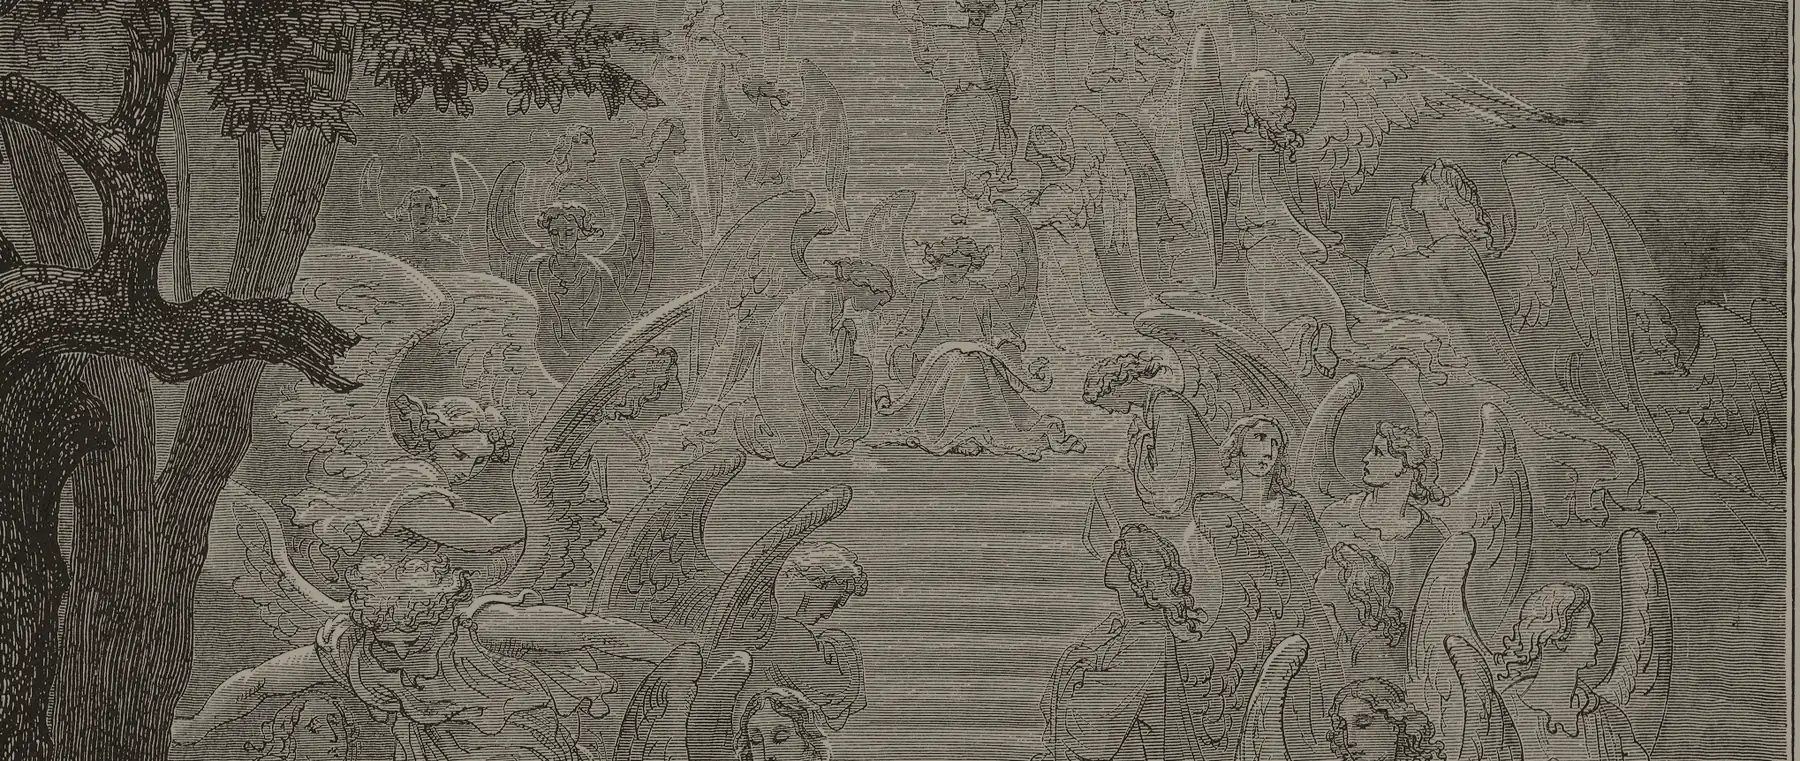
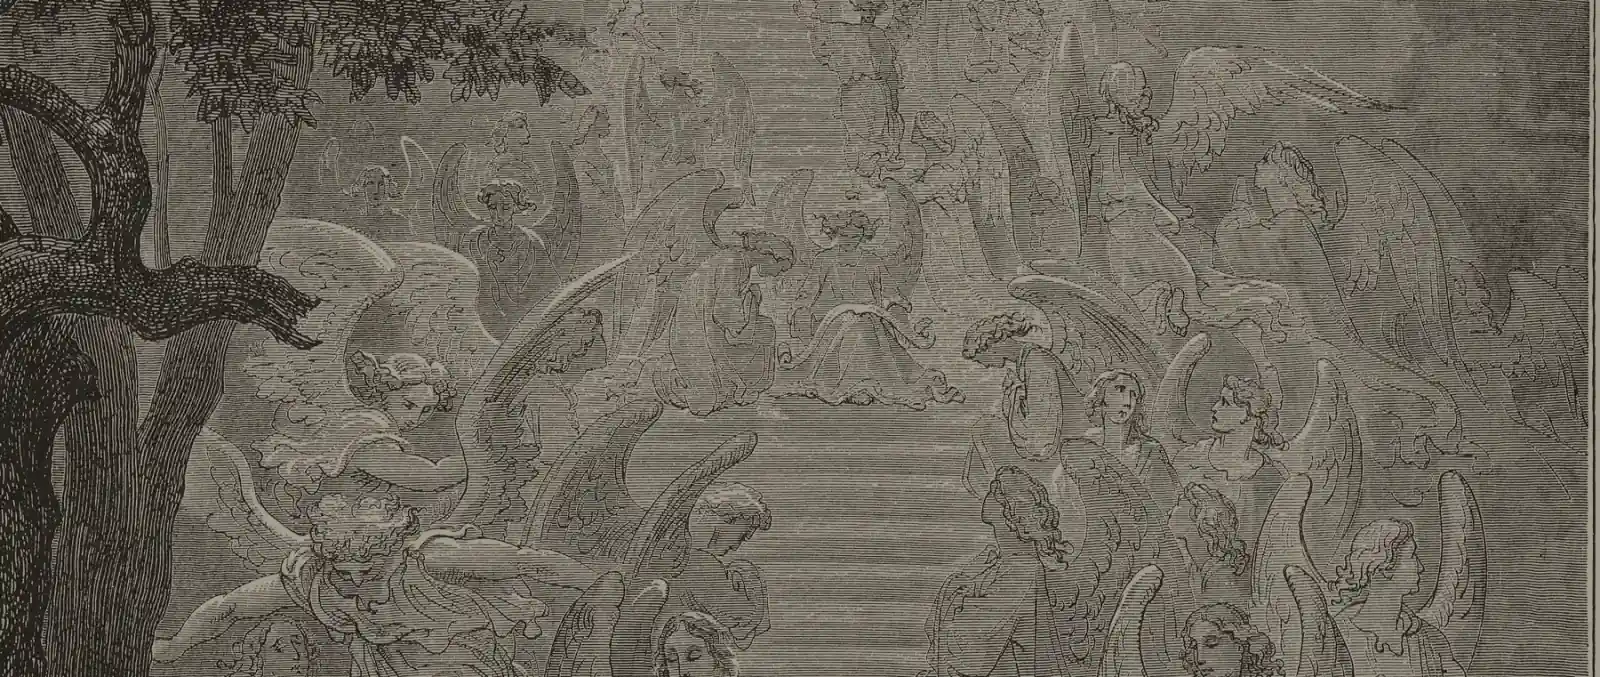
Re-encode the Doré band and lock the Ink & Bone tokens.
The desktop week plate is about 160KB and still in colour. Raised surfaces match the card, oxblood is only the large initial, and the room controls sit below the plate so they can be pressed.

diff --git a/src/components/board/week-view.tsx b/src/components/board/week-view.tsx
@@ -41,7 +41,7 @@ export function WeekView() {
       <div className="flex flex-col gap-8">
         <section className="plate flex flex-col gap-2">
           <Kicker>This week</Kicker>
-          <h1 className="font-display text-4xl text-balance text-fg lg:text-5xl">{week.length === 0 ? "Nothing on the calendar yet." : "This week"}</h1>
+          <h1 className="illum font-display text-4xl text-balance text-fg lg:text-5xl">{week.length === 0 ? "Nothing on the calendar yet." : "This week"}</h1>
           {week.length > 0 ? (
             <p className="max-w-prose text-base text-muted">The next seven days. Press <strong className="font-semibold text-fg">I'll be there</strong> on anything you will go to; the host will take roll after.</p>
           ) : null}
@@ -102,7 +102,7 @@ function DayCard({ card, me }: { card: MeetingCard; me: string }) {
         {card.kind === "candidate" ? <span className="rounded-sm border border-signal px-2 py-1 text-signal">Candidate event</span> : null}
         {card.firstTimer ? <span className="text-signal">new people welcome</span> : null}
       </div>
-      <h3 className="mt-2 text-2xl text-fg">{card.name}</h3>
+      <h3 className="illum mt-2 text-2xl text-fg">{card.name}</h3>
       <p className="text-sm text-muted">{cardSummary(card)}</p>
       {card.book ? <p className="mt-1 text-sm text-fg">{readingLine(card)}</p> : null}
       {card.going.length > 0 ? <p className="mt-1 text-sm text-muted">Going: {card.going.join(", ")}</p> : null}
@@ -127,7 +127,7 @@ export function NeedCard({ card }: { card: MeetingCard }) {
         <span className="rounded-sm bg-raised px-2 py-1 font-semibold text-fg">{roomById(card.room).name}</span>
         <span className="text-muted">organized by {card.host}</span>
       </div>
-      <h3 className="mt-2 text-xl text-fg">{card.name}</h3>
+      <h3 className="illum mt-2 text-xl text-fg">{card.name}</h3>
       <p className="text-sm text-muted">
         {card.time} · {card.place}
       </p>
@@ -167,7 +167,7 @@ function TheCall() {
         const office = officeById(campaign.officeId, customOffices);
         return (
           <article key={campaign.id} className="card rounded-lg border border-signal bg-surface p-4">
-            <h3 className="text-2xl text-fg">{campaign.title}</h3>
+            <h3 className="illum text-2xl text-fg">{campaign.title}</h3>
             <p className="text-sm text-muted">
               {office.name}, {office.role} · {formatWindow(campaign.surgeStart, campaign.surgeEnd)}
             </p>

diff --git a/src/lib/board/engraved.test.ts b/src/lib/board/engraved.test.ts
@@ -64,8 +64,15 @@ test("every plate the stylesheet names is a WebP in public/art", () => {
   }
 });
 
+test("the desktop Doré week band is about 160 KB", () => {
+  const size = statSync(new URL("../../../public/art/dore-band-A.webp", import.meta.url)).size;
+  assert.ok(size >= 140 * 1024 && size <= 180 * 1024, `dore-band-A.webp is ${size} bytes`);
+});
+
 test("reduced data and the first paint skip the art URL", () => {
-  assert.match(css, /prefers-reduced-data:reduce/);
+  assert.match(css, /prefers-reduced-data:\s*reduce/);
+  assert.match(css, /prefers-reduced-motion:\s*reduce/);
+  assert.match(css, /animation:none!important/);
   assert.equal(artAttribute({ painted: false, reducedData: false, section: "week" }), null);
   assert.equal(artAttribute({ painted: true, reducedData: true, section: "landing" }), null);
   assert.equal(artAttribute({ painted: true, reducedData: false, section: "rooms" }), "rooms");
@@ -90,12 +97,26 @@ test("ink and bone text clears WCAG AA on the card, including evening", () => {
     ["#bcae94", "#17110b", 4.5],
     ["#c9a45c", "#14100c", 3],
     ["#c9a45c", "#241d16", 3],
+    ["#b4483e", "#241d16", 3],
+    ["#b4483e", "#14100c", 3],
     ["#1f1912", "#f8f3e7", 4.5],
     ["#5e5242", "#f8f3e7", 4.5],
+    ["#14100c", "#f0e7d3", 4.5],
   ];
   for (const [fg, bg, min] of pairs) {
     assert.ok(contrast(fg, bg) >= min, `${fg} on ${bg}`);
   }
+  // Oxblood is a large initial, not body text: it clears 3:1 and misses 4.5:1.
+  assert.ok(contrast("#b4483e", "#241d16") < 4.5);
+  assert.match(css, /\.illum::first-letter\{color:var\(--accent\)/);
+  assert.equal([...css.matchAll(/var\(--accent\)/g)].length, 1);
+  const styles = readFileSync(new URL("../../styles.css", import.meta.url), "utf8");
+  assert.match(styles, /--color-bg:\s*#14100c/);
+  assert.match(styles, /--color-raised:\s*#241d16/);
+  assert.match(styles, /--color-fg:\s*#f0e7d3/);
+  assert.match(styles, /--color-gilt:\s*#c9a45c/);
+  assert.match(styles, /--color-rubric:\s*#b4483e/);
+  assert.match(styles, /--color-parchment:\s*#ece2cc/);
 });
 
 test("hero bands are week, rooms, and messages, and the label names the plate", () => {

diff --git a/src/components/board/dm-view.tsx b/src/components/board/dm-view.tsx
@@ -32,7 +32,7 @@ export function DmView() {
     return (
       <div className="plate flex flex-col gap-3">
         <Kicker>Messages</Kicker>
-        <h1 className="font-display text-4xl text-fg">Add your name first.</h1>
+        <h1 className="illum font-display text-4xl text-fg">Add your name first.</h1>
         <p className="max-w-2xl text-base text-muted">Messages go between two names. Yours is set under About.</p>
       </div>
     );
@@ -43,12 +43,12 @@ export function DmView() {
     const rows = byThread.get(thread.id) ?? [];
     return (
       <div className="flex flex-col gap-4 lg:max-w-3xl">
-        <button type="button" className={cn(btnQuiet, "self-start px-0")} onClick={() => setOpenThread(null)}>
-          <ArrowLeft className="size-4" aria-hidden="true" />
-          All messages
-        </button>
-        <div className="plate">
-          <h1 className="font-display text-3xl text-fg">{other}</h1>
+        <div className="plate flex flex-col gap-2">
+          <button type="button" className={cn(btnQuiet, "self-start px-0")} onClick={() => setOpenThread(null)}>
+            <ArrowLeft className="size-4" aria-hidden="true" />
+            All messages
+          </button>
+          <h1 className="illum font-display text-3xl text-fg">{other}</h1>
           <p className="text-sm text-muted">Plain text, deleted after {DM_RETENTION_DAYS} days.</p>
         </div>
         <ul className="flex flex-col gap-2">
@@ -89,7 +89,7 @@ export function DmView() {
     <div className="flex flex-col gap-6">
       <section className="plate flex flex-col gap-3">
         <Kicker>Messages</Kicker>
-        <h1 className="max-w-xl font-display text-4xl text-balance text-fg lg:text-5xl">Messages</h1>
+        <h1 className="illum max-w-xl font-display text-4xl text-balance text-fg lg:text-5xl">Messages</h1>
         <p className="max-w-prose text-base text-muted">
           You can message someone you have been on an "I went" list with, or who replied to your post. Open one
           from their post or their card. Messages are plain text, not encrypted, and are deleted after {DM_RETENTION_DAYS} days.

diff --git a/src/components/board/room-view.tsx b/src/components/board/room-view.tsx
@@ -115,7 +115,7 @@ export function RoomView() {
                   : "Coming up"}
             {card.pinned ? " · pinned by the host" : ""}
           </Kicker>
-          <h2 className="mt-2 text-2xl text-fg">{card.name}</h2>
+          <h2 className="illum mt-2 text-2xl text-fg">{card.name}</h2>
           <p className="text-sm text-muted">
             {cardSummary(card)}
             {card.next ? ` · ${formatDate(card.next)}` : ""}
@@ -136,8 +136,16 @@ export function RoomView() {
 
   return (
     <div className="flex flex-col gap-6">
+      <section className="plate flex flex-col gap-2">
+        <Kicker>{meta.cardNoun === "Service" ? "Church" : "Room"}</Kicker>
+        <h1 className="illum font-display text-4xl text-balance text-fg lg:text-5xl">{meta.name}</h1>
+        <p className="max-w-prose text-base text-muted">{meta.what}</p>
+        <RoomCall roomId={room} />
+        <RoomChat roomId={room} />
+      </section>
+
       <nav
-        className="flex gap-2 overflow-x-auto pb-1 lg:flex-wrap lg:overflow-visible"
+        className="relative z-10 flex gap-2 overflow-x-auto pb-1 lg:flex-wrap lg:overflow-visible"
         aria-label="Rooms"
       >
         {rooms.map((item) => (
@@ -152,14 +160,6 @@ export function RoomView() {
           </button>
         ))}
       </nav>
-
-      <section className="plate flex flex-col gap-2">
-        <Kicker>{meta.cardNoun === "Service" ? "Church" : "Room"}</Kicker>
-        <h1 className="font-display text-4xl text-balance text-fg lg:text-5xl">{meta.name}</h1>
-        <p className="max-w-prose text-base text-muted">{meta.what}</p>
-        <RoomCall roomId={room} />
-        <RoomChat roomId={room} />
-      </section>
 
       <div className="grid gap-6 lg:grid-cols-[minmax(0,1fr)_minmax(20rem,26rem)] lg:gap-12">
         <div className="flex flex-col gap-6">

diff --git a/src/components/board/find-view.tsx b/src/components/board/find-view.tsx
@@ -66,7 +66,7 @@ export function FindView() {
       <div className="flex flex-col gap-8">
         <section className="flex flex-col gap-3">
           <Kicker>Find</Kicker>
-          <h1 className="max-w-xl font-display text-4xl text-balance text-fg lg:text-5xl">
+          <h1 className="illum max-w-xl font-display text-4xl text-balance text-fg lg:text-5xl">
             Every meeting, in one list.
           </h1>
           <p className="max-w-prose text-base text-muted">
@@ -182,7 +182,7 @@ function TradeRow({ card, witnesses, ...rest }: RowProps & { witnesses: string[]
   return (
     <article className={cn("card rounded-lg border border-line bg-surface p-4", !shown && "opacity-80")}>
       <Tags card={card} />
-      <h3 className="mt-2 text-xl text-fg">{card.name}</h3>
+      <h3 className="illum mt-2 text-xl text-fg">{card.name}</h3>
       <p className="text-sm text-muted">{cardSummary(card)}</p>
       <p className="mt-1 text-sm text-muted">
         {witnesses.length === 0
@@ -258,7 +258,7 @@ function MeetingRow({ card, shown, ...rest }: RowProps & { shown: boolean }) {
         {card.pinned ? <span className="text-signal">pinned</span> : null}
         {card.firstTimer ? <span className="text-signal">new people welcome</span> : null}
       </Tags>
-      <h3 className="mt-2 text-xl text-fg">{card.name}</h3>
+      <h3 className="illum mt-2 text-xl text-fg">{card.name}</h3>
       <p className="text-sm text-muted">{cardSummary(card)}</p>
       {card.book ? <p className="mt-1 text-sm text-fg">{readingLine(card)}</p> : null}
       <p className="mt-1 text-sm text-muted">

diff --git a/src/components/board/profile-view.tsx b/src/components/board/profile-view.tsx
@@ -30,7 +30,7 @@ export function ProfileView() {
     return (
       <div className="flex flex-col gap-3">
         <Kicker>Profile</Kicker>
-        <h1 className="font-display text-4xl text-fg">{name}</h1>
+        <h1 className="illum font-display text-4xl text-fg">{name}</h1>
         <p className="max-w-2xl text-base text-muted">You can see a profile once you have been to the same meeting as that person. You and {name} have not been to one yet.</p>
       </div>
     );
@@ -40,7 +40,7 @@ export function ProfileView() {
     <div className="flex flex-col gap-8 lg:max-w-4xl">
       <section className="flex flex-col gap-2">
         <Kicker>{mine ? "You" : "Profile"}</Kicker>
-        <h1 className="font-display text-4xl text-fg lg:text-5xl">{name}</h1>
+        <h1 className="illum font-display text-4xl text-fg lg:text-5xl">{name}</h1>
         {mine ? (
           <p className="max-w-prose text-sm text-muted">Your household, church, and trade. Only people who have been to the same meeting as you can see this page; to everyone else you are a name.</p>
         ) : null}

diff --git a/src/components/quorum/desk-view.tsx b/src/components/quorum/desk-view.tsx
@@ -76,7 +76,7 @@ export function DeskView() {
   if (!campaign) {
     return (
       <div className="flex flex-col gap-4">
-        <h1 className="text-3xl text-fg">That call is gone.</h1>
+        <h1 className="illum text-3xl text-fg">That call is gone.</h1>
         <button type="button" className={btnGhost} onClick={() => setView("load")}>
           Back to calls
         </button>
@@ -146,7 +146,7 @@ export function DeskView() {
             </span>
           )}
         </div>
-        <h1 className="text-4xl text-fg">{campaign.title}</h1>
+        <h1 className="illum text-4xl text-fg">{campaign.title}</h1>
         <p className="max-w-prose text-base text-muted">{campaign.principle}</p>
         <p className="max-w-prose text-sm text-muted">
           This is one call. Below: the message everyone gives, the official and when to call, the script to read word for word, how to send it to your group, and the "I called" button.

diff --git a/src/components/quorum/app.tsx b/src/components/quorum/app.tsx
@@ -31,7 +31,7 @@ export function QuorumPanel() {
     <div className="flex flex-col gap-6">
       <div className="flex flex-col gap-3">
         <Kicker>The desk</Kicker>
-        <h1 className="font-display text-4xl text-balance text-fg lg:text-5xl">Everyone calls one official, at the same time, with the same message.</h1>
+        <h1 className="illum font-display text-4xl text-balance text-fg lg:text-5xl">Everyone calls one official, at the same time, with the same message.</h1>
         <p className="max-w-prose text-base text-muted">
           Scattered emails to every office get ignored. What staff notice is a hundred calls to the one official whose desk a bill is sitting on, in one morning, all asking for the same thing. This page tells you who that official is, what to say, when to call, and lets you record that you called.
         </p>

diff --git a/src/styles.css b/src/styles.css
@@ -19,17 +19,17 @@
   /* Ink & Bone, the default plate palette. Parchment is [data-palette="parchment"] in backgrounds.css. */
   --color-bg: #14100c;
   --color-surface: #1f1914;
-  --color-raised: #2d251c;
+  --color-raised: #241d16;
   --color-fg: #f0e7d3;
   --color-muted: #bcae94;
   --color-line: #3a3026;
   --color-line-strong: #8a7a62;
   --color-signal: #f0e7d3;
   --color-signal-ink: #14100c;
-  --color-parchment: #f3ecdc;
+  --color-parchment: #ece2cc;
   --color-ink: #1f1912;
   --color-gilt: #c9a45c;
-  --color-accent: #b4483e;
+  --color-rubric: #b4483e;
   --font-sans: "Public Sans", "Segoe UI", sans-serif;
   --font-display: "EB Garamond", "Iowan Old Style", "Palatino Linotype", Georgia, serif;
 }

diff --git a/src/components/not-found.tsx b/src/components/not-found.tsx
@@ -6,7 +6,7 @@ export function NotFoundPage() {
   return (
     <main className="mx-auto flex min-h-screen w-full max-w-xl flex-col justify-center gap-6 px-6 py-16">
       <p className="text-xs font-semibold tracking-widest text-muted uppercase">Avouch Social</p>
-      <h1 className="text-4xl text-fg sm:text-5xl">This page is not on the board.</h1>
+      <h1 className="illum text-4xl text-fg sm:text-5xl">This page is not on the board.</h1>
       <p className="max-w-prose text-base text-muted">
         That address does not match a page here. The door is at the front of Avouch Social.
       </p>

diff --git a/src/components/board/door.tsx b/src/components/board/door.tsx
@@ -114,7 +114,7 @@ export function Door() {
       <div className="flex max-w-3xl flex-col gap-8">
         <section className="card flex flex-col gap-3 p-6">
           <Kicker>Invite only</Kicker>
-          <h1 className="font-display text-4xl leading-tight text-balance text-fg sm:text-5xl lg:text-6xl">
+          <h1 className="illum font-display text-4xl leading-tight text-balance text-fg sm:text-5xl lg:text-6xl">
             Someone brought you here for one thing.
           </h1>
           <p className="max-w-prose text-base text-muted lg:text-lg">

diff --git a/src/components/board/about-view.tsx b/src/components/board/about-view.tsx
@@ -92,7 +92,7 @@ export function AboutView() {
       <ServerInvite />
       <section className="flex flex-col gap-3">
         <Kicker>About</Kicker>
-        <h1 className="max-w-2xl font-display text-4xl text-balance text-fg lg:text-5xl">
+        <h1 className="illum max-w-2xl font-display text-4xl text-balance text-fg lg:text-5xl">
           A private app for the people you see at church, at the shop, and at the county.
         </h1>
         <p className="max-w-prose text-base text-muted">
